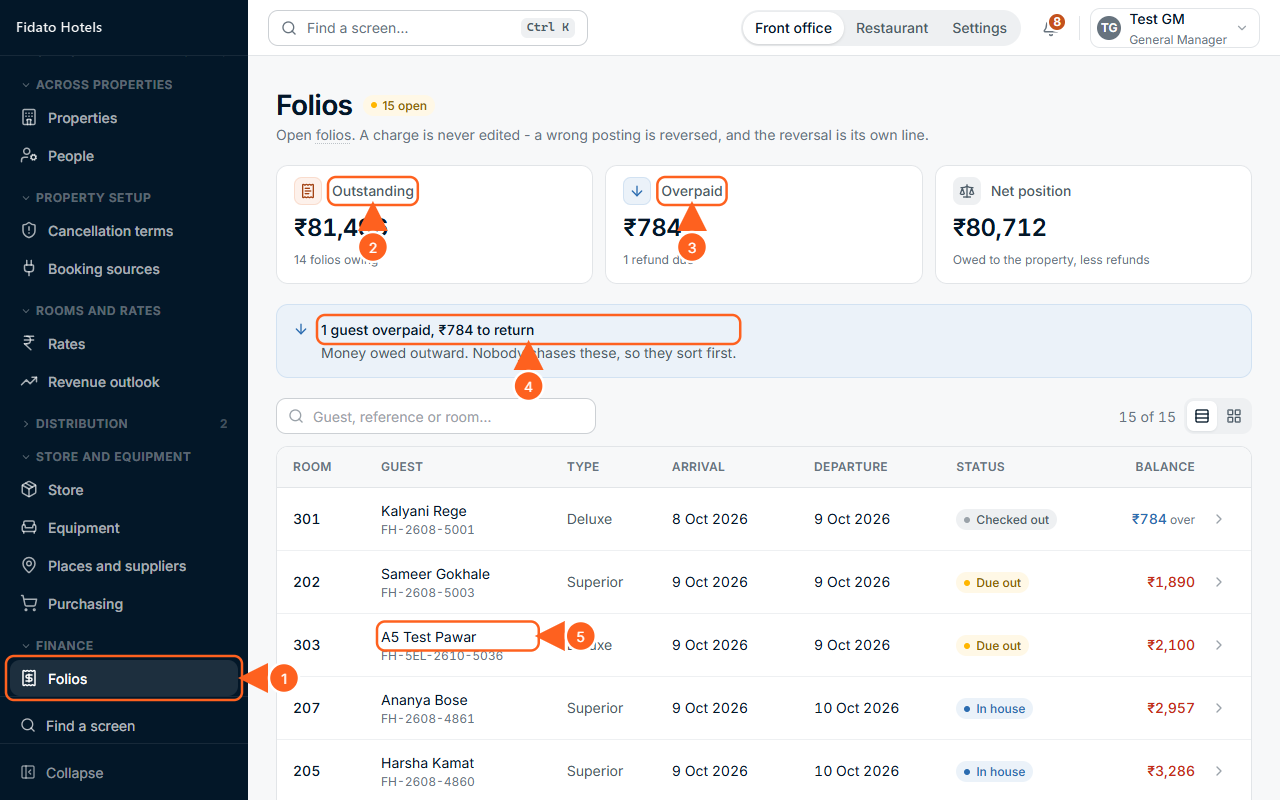
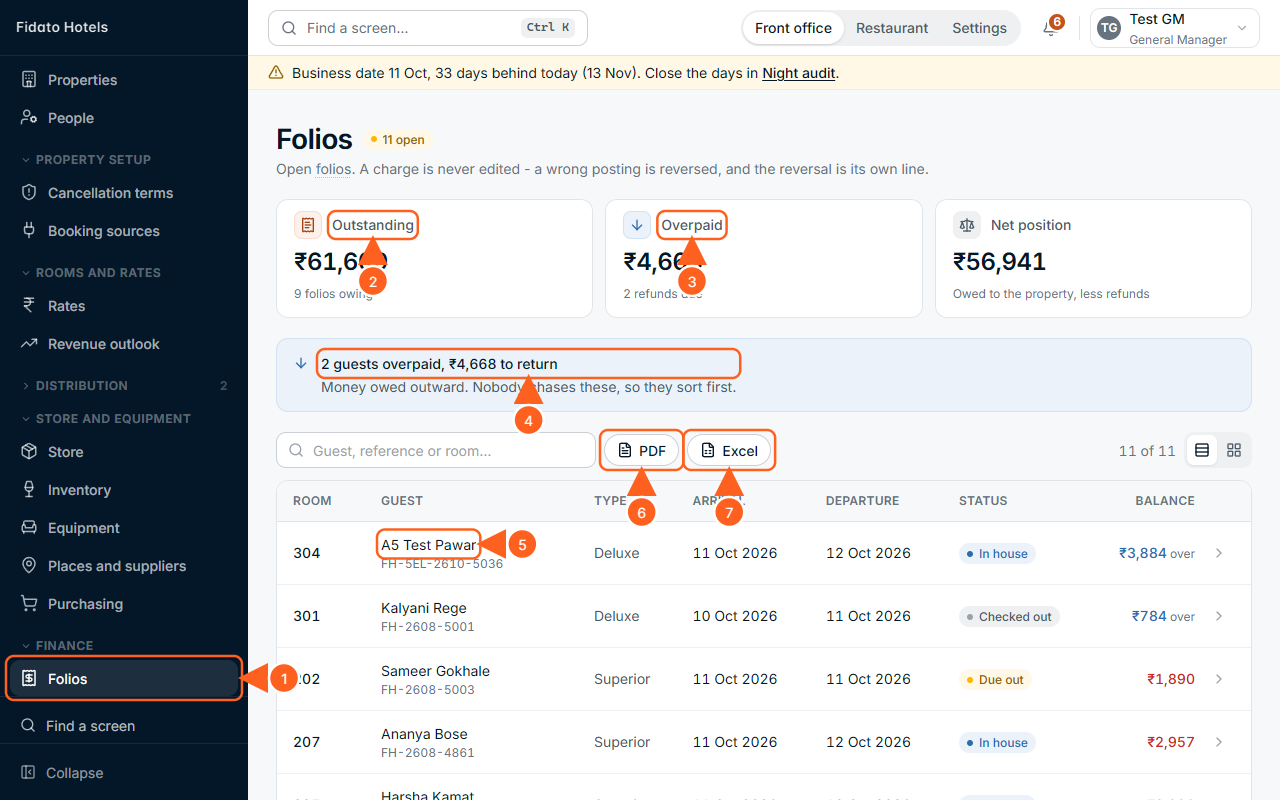
Manual A4: Folios with PDF and Excel, the Finance menu, Change the rate retaken; Cancel this invoice pictured; Paid out and Expense

diff --git a/docs/manual/manual.html b/docs/manual/manual.html
@@ -236,7 +236,7 @@ figure.shot.phone img { max-width: 72mm; }
   <div class="foot">
     The screens in this book are from the test hotel, 5 Elements Akkalkot. Every guest in it is made up.<br>
     Decision numbers such as D27-249 are the owner's decisions; the list is kept in <code style="background:none;color:inherit">docs/briefs/decisions-*.md</code>.<br>
-    484 pictures. Built from the chapters in docs/manual/chapters.
+    486 pictures. Built from the chapters in docs/manual/chapters.
   </div>
 </section>
 
@@ -2715,7 +2715,7 @@ figure.shot.phone img { max-width: 72mm; }
   </table>
 
   <figure class="shot" id="fig-A4-01">
-    <img src="img/A4-01.png" alt="The Folios screen: Outstanding, Overpaid and Net position, the overpaid line, and the list of open bills">
+    <img src="img/A4-01.png" alt="The Folios screen: Outstanding, Overpaid and Net position, the line 2 guests overpaid, PDF and Excel, and the list of open bills with the overpaid guests first">
     <figcaption><b>Figure A4-01.</b> Folios: every open bill.</figcaption>
     <ol class="callouts">
       <li>Folios, under Finance in the menu</li>
@@ -2723,6 +2723,8 @@ figure.shot.phone img { max-width: 72mm; }
       <li>Overpaid: money owed back to guests</li>
       <li>Overpaid guests come first: <span class="msg">“Nobody chases these, so they sort first.”</span></li>
       <li>A guest. Click the row to open their bill</li>
+      <li>PDF: the list as it is, for those who download reports (A11.2)</li>
+      <li>Excel: the same, as a spreadsheet</li>
     </ol>
   </figure>
 
@@ -3182,6 +3184,7 @@ figure.shot.phone img { max-width: 72mm; }
     <li><span class="ui">Taken this shift</span> lists what you took, by method. Only cash reaches the drawer: a card payment, or a bill sent to a company, is not in the tin.</li>
     <li>Money that was not a payment: under <span class="ui">In and out of the drawer</span>, click <span class="ui">Record</span>. Choose <span class="ui">What happened</span> (<span class="ui">Paid out</span>, <span class="ui">Cash in</span>, <span class="ui">To the safe</span>), type <span class="ui">How much</span> and <span class="ui">What was it for</span>, and click <span class="ui">Record</span>.</li>
     <li>A <b>Paid out</b> also needs its <span class="ui">Category</span>: Kitchen, Housekeeping, Maintenance, Office or Other (<span class="ui">Record</span> stays grey until one is chosen). Add the <span class="ui">Photo of the bill</span> if you have it: the phone's camera, or a file. It can be added later with <span class="ui">Add photo</span> under the paid-out; <span class="ui">Photo of the bill</span> opens it. A paid-out from before 27 October 2026 shows a dash for its category.</li>
+    <li>The restaurant's till has the same list, but there the word is <span class="ui">Expense</span>, not <span class="ui">Paid out</span> (A8): its category and the photo of the bill work as here.</li>
     <li>A <b>Paid out</b> waits for the GM's or the owner's yes. Until then it reads <span class="msg">“Waiting for a yes - not taken off the drawer yet”</span>. Every paid-out is in the <span class="ui">Petty cash</span> report (A11.6).</li>
     <li><span class="ui">The drawer</span>, on the right, adds it up: <span class="ui">Opening float</span>, <span class="ui">Cash taken</span>, money in and out, <span class="ui">Expected</span>, and <span class="ui">Counted</span>.</li>
   </ul>
@@ -3248,8 +3251,28 @@ figure.shot.phone img { max-width: 72mm; }
   <ol class="steps">
     <li>Open the invoice from the list under <span class="ui">Issued</span>, and click <span class="ui">Cancel this invoice</span>.</li>
     <li>Type <span class="ui">Why the invoice was wrong</span>.</li>
-    <li>Click <span class="ui">Issue credit note</span>. The invoice is not edited and not deleted: a credit note with its own number is issued against it, and both stay on the record.</li>
+    <li>Click <span class="ui">Issue credit note</span>. The invoice is not edited and not deleted: a credit note with its own number is issued against it, and both stay on the record. <span class="ui">Keep it</span> closes the window and cancels nothing.</li>
   </ol>
+
+  <figure class="shot" id="fig-A4-25">
+    <img src="img/A4-25.png" alt="An issued tax invoice's page: Print, Send invoice and Cancel this invoice above the invoice itself">
+    <figcaption><b>Figure A4-25.</b> An issued invoice: Cancel this invoice.</figcaption>
+    <ol class="callouts">
+      <li>Print</li>
+      <li>Send invoice (greyed while sending is not set up on the server)</li>
+      <li>Cancel this invoice: opens the credit note window</li>
+    </ol>
+  </figure>
+
+  <figure class="shot" id="fig-A4-26">
+    <img src="img/A4-26.png" alt="The window Cancel invoice 5EL/2026-27/00001: what a credit note does, Why the invoice was wrong with a reason typed, Keep it and Issue credit note">
+    <figcaption><b>Figure A4-26.</b> Cancel this invoice: why it was wrong, and Issue credit note (shown here, not issued: Keep it was clicked).</figcaption>
+    <ol class="callouts">
+      <li>What the credit note does: neither document is edited or deleted</li>
+      <li>Why the invoice was wrong: required, and kept on the record</li>
+      <li>Issue credit note: grey until a reason is typed</li>
+    </ol>
+  </figure>
 
   <div class="box watch">
     <h4>Watch out</h4>

diff --git a/docs/manual/chapters/a4.html b/docs/manual/chapters/a4.html
@@ -25,7 +25,7 @@
   </table>
 
   <figure class="shot" id="fig-A4-01">
-    <img src="img/A4-01.png" alt="The Folios screen: Outstanding, Overpaid and Net position, the overpaid line, and the list of open bills">
+    <img src="img/A4-01.png" alt="The Folios screen: Outstanding, Overpaid and Net position, the line 2 guests overpaid, PDF and Excel, and the list of open bills with the overpaid guests first">
     <figcaption><b>Figure A4-01.</b> Folios: every open bill.</figcaption>
     <ol class="callouts">
       <li>Folios, under Finance in the menu</li>
@@ -33,6 +33,8 @@
       <li>Overpaid: money owed back to guests</li>
       <li>Overpaid guests come first: <span class="msg">“Nobody chases these, so they sort first.”</span></li>
       <li>A guest. Click the row to open their bill</li>
+      <li>PDF: the list as it is, for those who download reports (A11.2)</li>
+      <li>Excel: the same, as a spreadsheet</li>
     </ol>
   </figure>
 
@@ -492,6 +494,7 @@
     <li><span class="ui">Taken this shift</span> lists what you took, by method. Only cash reaches the drawer: a card payment, or a bill sent to a company, is not in the tin.</li>
     <li>Money that was not a payment: under <span class="ui">In and out of the drawer</span>, click <span class="ui">Record</span>. Choose <span class="ui">What happened</span> (<span class="ui">Paid out</span>, <span class="ui">Cash in</span>, <span class="ui">To the safe</span>), type <span class="ui">How much</span> and <span class="ui">What was it for</span>, and click <span class="ui">Record</span>.</li>
     <li>A <b>Paid out</b> also needs its <span class="ui">Category</span>: Kitchen, Housekeeping, Maintenance, Office or Other (<span class="ui">Record</span> stays grey until one is chosen). Add the <span class="ui">Photo of the bill</span> if you have it: the phone's camera, or a file. It can be added later with <span class="ui">Add photo</span> under the paid-out; <span class="ui">Photo of the bill</span> opens it. A paid-out from before 27 October 2026 shows a dash for its category.</li>
+    <li>The restaurant's till has the same list, but there the word is <span class="ui">Expense</span>, not <span class="ui">Paid out</span> (A8): its category and the photo of the bill work as here.</li>
     <li>A <b>Paid out</b> waits for the GM's or the owner's yes. Until then it reads <span class="msg">“Waiting for a yes - not taken off the drawer yet”</span>. Every paid-out is in the <span class="ui">Petty cash</span> report (A11.6).</li>
     <li><span class="ui">The drawer</span>, on the right, adds it up: <span class="ui">Opening float</span>, <span class="ui">Cash taken</span>, money in and out, <span class="ui">Expected</span>, and <span class="ui">Counted</span>.</li>
   </ul>
@@ -558,8 +561,28 @@
   <ol class="steps">
     <li>Open the invoice from the list under <span class="ui">Issued</span>, and click <span class="ui">Cancel this invoice</span>.</li>
     <li>Type <span class="ui">Why the invoice was wrong</span>.</li>
-    <li>Click <span class="ui">Issue credit note</span>. The invoice is not edited and not deleted: a credit note with its own number is issued against it, and both stay on the record.</li>
+    <li>Click <span class="ui">Issue credit note</span>. The invoice is not edited and not deleted: a credit note with its own number is issued against it, and both stay on the record. <span class="ui">Keep it</span> closes the window and cancels nothing.</li>
   </ol>
+
+  <figure class="shot" id="fig-A4-25">
+    <img src="img/A4-25.png" alt="An issued tax invoice's page: Print, Send invoice and Cancel this invoice above the invoice itself">
+    <figcaption><b>Figure A4-25.</b> An issued invoice: Cancel this invoice.</figcaption>
+    <ol class="callouts">
+      <li>Print</li>
+      <li>Send invoice (greyed while sending is not set up on the server)</li>
+      <li>Cancel this invoice: opens the credit note window</li>
+    </ol>
+  </figure>
+
+  <figure class="shot" id="fig-A4-26">
+    <img src="img/A4-26.png" alt="The window Cancel invoice 5EL/2026-27/00001: what a credit note does, Why the invoice was wrong with a reason typed, Keep it and Issue credit note">
+    <figcaption><b>Figure A4-26.</b> Cancel this invoice: why it was wrong, and Issue credit note (shown here, not issued: Keep it was clicked).</figcaption>
+    <ol class="callouts">
+      <li>What the credit note does: neither document is edited or deleted</li>
+      <li>Why the invoice was wrong: required, and kept on the record</li>
+      <li>Issue credit note: grey until a reason is typed</li>
+    </ol>
+  </figure>
 
   <div class="box watch">
     <h4>Watch out</h4>

diff --git a/docs/manual/CHANGELOG.md b/docs/manual/CHANGELOG.md
@@ -6,3 +6,4 @@ One line per chapter and picture set, in the order they were committed; the deci
 - 13 Nov, A3 (D27-396): A3-02 and A3-12 taken (A3 Test Iyer, room 209), the two 'to be taken' boxes are pictures; A3-12 with Rooms ready from put to 20:00 for the picture and back to 14:00 (the clock was past 14:00).
 - 13 Nov, A5 (D27-396): A5-05, A5-09, A5-10, A5-11 taken (the Check out window, the overpaid bill, the Refund window, the receipt); A5-T1 (now Proforma bill, the late window) taken again with the demo's Ganesh Patil; A5-T6 and A5-T7 retaken; img/A5-T8.png removed (no chapter showed it; its screen went with D27-344).
 - 13 Nov, A1 (D27-396): Figure A1-16 shows img/A5-T1.png (the same window as Figure A5-06), so its 'to be taken' box is gone.
+- 13 Nov, A4 (D27-396): A4-01 (PDF and Excel, two guests overpaid), A4-02 (Finance menu with Supplier dues) and A4-11 (arrow 4 on the window's own button) retaken; A4-25 and A4-26 new (Cancel this invoice, the credit note window); A4.10 says the restaurant calls Paid out Expense. A4-06m not retaken: it needs a beer on the minibar list and the alcohol VAT set up (see the report).
